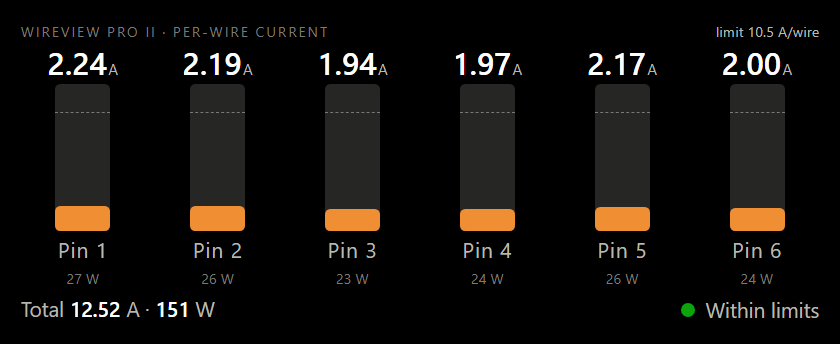
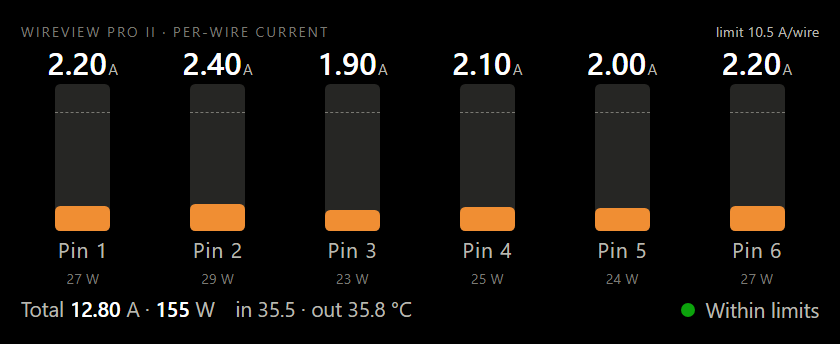
Show the connector's in and out temperatures on every widget
The bridge has always served temp_in and temp_out, but the widgets showed
at most one unlabelled value. The shared runtime now formats both as
"in 35.5 · out 35.8 °C"; the total-current and total-power widgets carry
it on a second detail line (a single line clips in the vertical slots),
and the per-wire footer shows it beside the totals, wrapping the status
onto its own line when the row is full. Screenshots refreshed.

diff --git a/docs/per-wire/index.html b/docs/per-wire/index.html
@@ -19,8 +19,9 @@
   .wire .bar .limit { position: absolute; left: 0; right: 0; bottom: 80%; border-top: 1px dashed var(--ink-3); }
   .wire .pin { font-size: var(--fs-sub); color: var(--ink-2); letter-spacing: 0.05em; }
   .wire .watts { font-size: var(--fs-cap); color: var(--ink-3); }
-  .foot { display: flex; justify-content: space-between; align-items: baseline; gap: 1em; font-size: var(--fs-sub); color: var(--ink-2); white-space: nowrap; }
+  .foot { display: flex; flex-wrap: wrap; justify-content: space-between; align-items: baseline; gap: 0 1em; font-size: var(--fs-sub); color: var(--ink-2); white-space: nowrap; }
   .foot b { color: var(--ink); font-weight: 600; }
+  .foot .status { margin-left: auto; }
   /* Vertical slots: two rows of three */
   @media (max-aspect-ratio: 1.2 / 1) {
     .wires { grid-template-columns: repeat(3, 1fr); grid-template-rows: 1fr 1fr; }
@@ -31,7 +32,7 @@
 <body>
   <div class="caption"><span>WireView Pro II · per-wire current</span><span class="right" id="cap-right"></span></div>
   <div class="wires" id="wires"></div>
-  <div class="foot"><span>Total <b id="tot-a">--</b> A · <b id="tot-w">--</b> W</span><span class="status" id="status"><span class="dot"></span><span id="status-text">Within limits</span></span></div>
+  <div class="foot"><span>Total <b id="tot-a">--</b> A · <b id="tot-w">--</b> W</span><span id="temps">in -- · out -- °C</span><span class="status" id="status"><span class="dot"></span><span id="status-text">Within limits</span></span></div>
   <div class="problem"><div class="title" id="p-title"></div><div class="hint" id="p-hint"></div></div>
 <script src="../common/wireview.js"></script>
 <script>
@@ -77,6 +78,7 @@
     });
     document.getElementById('tot-a').textContent = WV.fmt(d.total_current);
     document.getElementById('tot-w').textContent = WV.fmt(d.total_power, 0);
+    document.getElementById('temps').textContent = WV.temps(d);
     const faults = WV.activeFaults(d);
     if (faults.length) { worst = 'crit'; statusText.textContent = faults.join(', '); }
     else if (worst === 'crit') statusText.textContent = 'Wire over limit';

diff --git a/docs/total-power/index.html b/docs/total-power/index.html
@@ -11,7 +11,8 @@
   <div class="hero-wrap">
     <div class="hero">
       <div class="value"><span id="val">--</span><span class="unit">W</span></div>
-      <div class="sub" id="sub">-- A · -- °C</div>
+      <div class="sub" id="sub">-- A</div>
+      <div class="sub" id="temps">in -- · out -- °C</div>
       <div class="status" id="status"><span class="dot"></span><span id="status-text">Within rating</span></div>
     </div>
     <div class="gauge" id="gauge">
@@ -28,7 +29,7 @@
 (function () {
   const WV = window.WireView, cfg = WV.cfg, body = document.body;
   document.getElementById('cap-right').textContent = 'cable ' + cfg.cableW + ' W';
-  const val = document.getElementById('val'), sub = document.getElementById('sub');
+  const val = document.getElementById('val'), sub = document.getElementById('sub'), temps = document.getElementById('temps');
   const status = document.getElementById('status'), statusText = document.getElementById('status-text');
   const gauge = document.getElementById('gauge'), arc = document.getElementById('arc'), pctEl = document.getElementById('pct');
   WV.start(function (d, err) {
@@ -47,8 +48,8 @@
     }
     const P = d.total_power;
     val.textContent = WV.fmt(P, Math.min(cfg.decimals, 1));
-    const t = d.temp_out != null ? d.temp_out : d.temp_in;
-    sub.textContent = WV.fmt(d.total_current, 2) + ' A · ' + WV.fmt(t, 1) + ' °C';
+    sub.textContent = WV.fmt(d.total_current, 2) + ' A';
+    temps.textContent = WV.temps(d);
     const ratio = P == null ? 0 : Math.max(0, Math.min(1, P / cfg.cableW));
     arc.setAttribute('stroke-dashoffset', String(75 - 75 * ratio));
     pctEl.textContent = Math.round(ratio * 100) + '%';

diff --git a/docs/index.html b/docs/index.html
@@ -33,7 +33,7 @@
 <body>
 <main>
   <h1>WireView Pro II widgets for the Corsair Xeneon Edge</h1>
-  <p>Live per-wire current, total current and total power from a Thermal Grizzly WireView Pro II, shown on the Xeneon Edge through iCUE's iFrame widget.</p>
+  <p>Live per-wire current, total current, total power and the connector's in/out temperatures from a Thermal Grizzly WireView Pro II, shown on the Xeneon Edge through iCUE's iFrame widget.</p>
   <p><span class="status" id="bridge"><span class="dot"></span><span id="bridge-text">Checking local bridge…</span></span></p>
 
   <h2>Widgets</h2>
@@ -65,9 +65,9 @@
 (function () {
   const base = location.href.replace(/[^/]*$/, '');
   const widgets = [
-    ['per-wire', 'Per-wire current', 'Six bars, one per 12V wire, against the per-wire limit.'],
-    ['total-current', 'Total current', 'Headline amps with a gauge against the total limit.'],
-    ['total-power', 'Total power', 'Headline watts with a gauge against the cable rating.'],
+    ['per-wire', 'Per-wire current', 'Six bars, one per 12V wire, against the per-wire limit; totals and in/out temperatures below.'],
+    ['total-current', 'Total current', 'Headline amps with a gauge against the total limit; average voltage, watts and in/out temperatures below.'],
+    ['total-power', 'Total power', 'Headline watts with a gauge against the cable rating; amps and in/out temperatures below.'],
   ];
   const cards = document.getElementById('cards');
   const local = 'http://localhost:8765/';

diff --git a/docs/total-current/index.html b/docs/total-current/index.html
@@ -12,6 +12,7 @@
     <div class="hero">
       <div class="value"><span id="val">--</span><span class="unit">A</span></div>
       <div class="sub" id="sub">-- V avg · -- W</div>
+      <div class="sub" id="temps">in -- · out -- °C</div>
       <div class="status" id="status"><span class="dot"></span><span id="status-text">Within limits</span></div>
     </div>
     <div class="gauge" id="gauge">
@@ -28,7 +29,7 @@
 (function () {
   const WV = window.WireView, cfg = WV.cfg, body = document.body;
   document.getElementById('cap-right').textContent = 'limit ' + cfg.totalLimit + ' A';
-  const val = document.getElementById('val'), sub = document.getElementById('sub');
+  const val = document.getElementById('val'), sub = document.getElementById('sub'), temps = document.getElementById('temps');
   const status = document.getElementById('status'), statusText = document.getElementById('status-text');
   const gauge = document.getElementById('gauge'), arc = document.getElementById('arc'), pctEl = document.getElementById('pct');
   WV.start(function (d, err) {
@@ -43,6 +44,7 @@
     const I = d.total_current;
     val.textContent = WV.fmt(I);
     sub.textContent = WV.fmt(d.avg_voltage, 2) + ' V avg · ' + WV.fmt(d.total_power, 0) + ' W';
+    temps.textContent = WV.temps(d);
     const ratio = I == null ? 0 : Math.max(0, Math.min(1, I / cfg.totalLimit));
     arc.setAttribute('stroke-dashoffset', String(75 - 75 * ratio));
     pctEl.textContent = Math.round(ratio * 100) + '%';

diff --git a/docs/common/style.css b/docs/common/style.css
@@ -53,6 +53,7 @@ body.problem-on .problem { display: flex; }
 .hero .value { font-size: var(--fs-hero); font-weight: 600; line-height: 1; letter-spacing: -0.02em; white-space: nowrap; }
 .hero .value .unit { font-size: var(--fs-unit); font-weight: 400; color: var(--ink-2); margin-left: 0.15em; }
 .hero .sub { font-size: var(--fs-sub); color: var(--ink-2); margin-top: calc(var(--u) * 2); white-space: nowrap; }
+.hero .sub + .sub { margin-top: calc(var(--u) * 0.5); }
 .gauge { flex: none; height: calc(var(--u) * 58); aspect-ratio: 1 / 1; }
 .gauge svg { width: 100%; height: 100%; display: block; }
 .gauge .track { stroke: var(--track); }

diff --git a/docs/common/wireview.js b/docs/common/wireview.js
@@ -64,6 +64,11 @@
     return v.toFixed(decimals == null ? cfg.decimals : decimals);
   }
 
+  // The connector's own two sensors, e.g. "in 35.5 · out 35.8 °C".
+  function temps(d) {
+    return 'in ' + fmt(d && d.temp_in, 1) + ' · out ' + fmt(d && d.temp_out, 1) + ' °C';
+  }
+
   let failures = 0;
   let timer = null;
   let freshnessTimer = null;
@@ -169,5 +174,5 @@
     return { title: 'No data', hint: d.error || '' };
   }
 
-  window.WireView = { cfg, level, activeFaults, fmt, start, problemText };
+  window.WireView = { cfg, level, activeFaults, fmt, temps, start, problemText };
 })();
